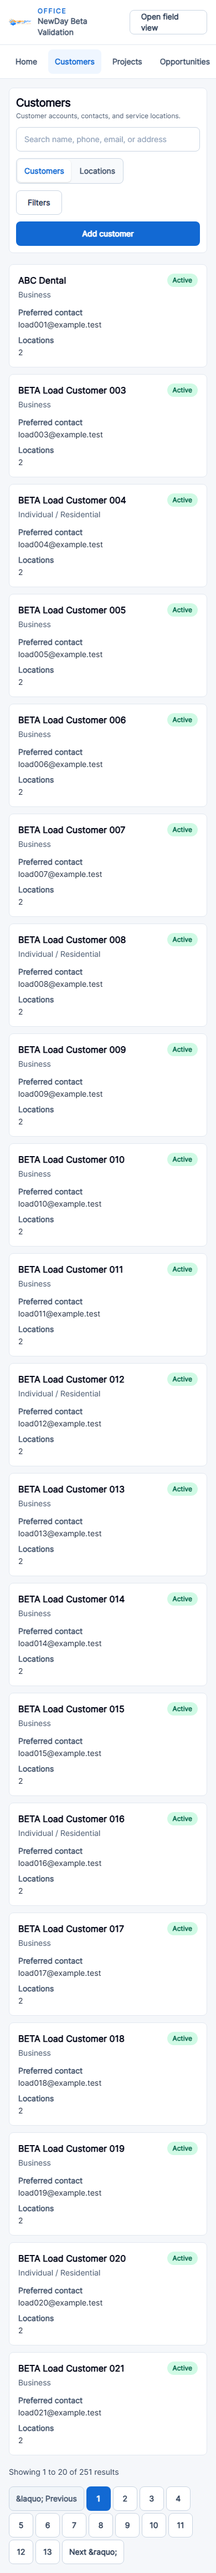
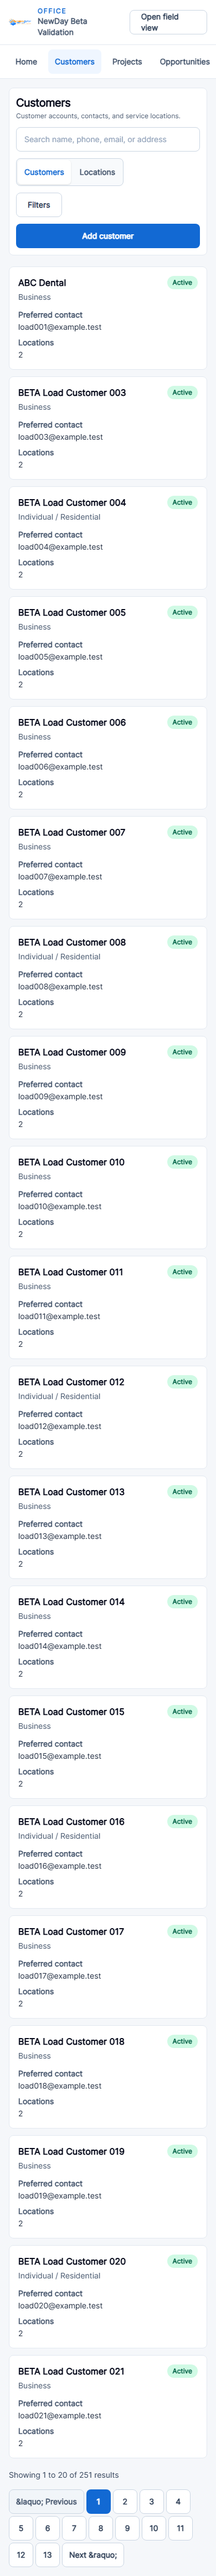
fix(ui): keep customer workspace styling on locations

diff --git a/tests/Browser/office-ui-foundation.spec.js b/tests/Browser/office-ui-foundation.spec.js
@@ -35,6 +35,7 @@ test('shared primary toolbar is responsive and accessible on the proof workspace
 
     for (const [id, name, path] of [
         ['C01', 'customers', '/office/customers'],
+        ['L01', 'locations', '/office/locations'],
         ['O01', 'opportunities', '/office/opportunities'],
         ['I01', 'invoices', '/office/invoices'],
     ]) {

diff --git a/resources/views/office/locations/index.blade.php b/resources/views/office/locations/index.blade.php
@@ -1,15 +1,30 @@
 <x-layouts.office title="Service locations" width="workspace">
-    <x-office.page-header title="Customers" description="Manage customer accounts, contacts, and service locations.">
-        @if ($activeMembership->hasCapability('customers.manage'))
-            <x-slot:actions><a href="{{ route('office.customers.create') }}" class="button-primary">Add customer</a></x-slot:actions>
-        @endif
-    </x-office.page-header>
-    <x-office.customer-workspace-tabs />
-
-    <form method="GET" class="office-filter-toolbar lg:grid-cols-[minmax(320px,1fr)_180px_auto]" aria-label="Location filters">
-        <div><label for="search" class="form-label">Search</label><input id="search" name="search" class="form-input" value="{{ request('search') }}" placeholder="Customer, location, city, or ZIP"></div>
-        <div><label for="status" class="form-label">Status</label><select id="status" name="status" class="form-input"><option value="">All locations</option><option value="active" @selected(request('status') === 'active')>Active</option><option value="inactive" @selected(request('status') === 'inactive')>Inactive</option></select></div>
-        <div class="flex flex-wrap gap-2"><button class="button-secondary">Filter</button>@if(request()->hasAny(['search', 'status']))<a href="{{ route('office.locations.index') }}" class="inline-flex min-h-11 items-center px-2 text-sm font-bold text-brand-blue underline">Clear</a>@endif</div>
+    @php($activeFilterCount = collect(['search', 'status'])->filter(fn ($key) => filled(request($key)))->count())
+    <form method="GET" aria-label="Location filters">
+        <x-office.primary-toolbar title="Customers" description="Customer accounts, contacts, and service locations.">
+            <x-slot:search>
+                <label for="search" class="sr-only">Search service locations</label>
+                <input id="search" name="search" class="form-input" value="{{ request('search') }}" placeholder="Search customer, location, city, or ZIP">
+            </x-slot:search>
+            <x-slot:viewSwitcher><x-office.customer-workspace-tabs /></x-slot:viewSwitcher>
+            <x-slot:filters>
+                <x-office.filter-panel :active-count="$activeFilterCount">
+                    <div><label for="status" class="form-label">Status</label><select id="status" name="status" class="form-input"><option value="">All locations</option><option value="active" @selected(request('status') === 'active')>Active</option><option value="inactive" @selected(request('status') === 'inactive')>Inactive</option></select></div>
+                    <div class="mt-4 flex flex-wrap justify-end gap-2"><a href="{{ route('office.locations.index') }}" class="button-secondary">Clear all</a><button class="button-primary">Apply filters</button></div>
+                </x-office.filter-panel>
+            </x-slot:filters>
+            @if ($activeMembership->hasCapability('customers.manage'))
+                <x-slot:primaryAction><a href="{{ route('office.customers.create') }}" class="button-primary">Add customer</a></x-slot:primaryAction>
+            @endif
+            @if($activeFilterCount)
+                <x-slot:chips>
+                    <span class="text-xs font-bold uppercase tracking-wide text-slate-500">Active filters</span>
+                    @if(filled(request('search')))<x-office.filter-chip label="Search: {{ request('search') }}" :remove-url="route('office.locations.index', request()->except(['search', 'page']))" />@endif
+                    @if(filled(request('status')))<x-office.filter-chip label="Status: {{ Str::headline(request('status')) }}" :remove-url="route('office.locations.index', request()->except(['status', 'page']))" />@endif
+                    <a href="{{ route('office.locations.index') }}" class="inline-flex min-h-9 items-center px-2 text-xs font-bold text-brand-blue underline">Clear all</a>
+                </x-slot:chips>
+            @endif
+        </x-office.primary-toolbar>
     </form>
 
     <div class="office-table-wrap" data-office-table>
@@ -27,7 +42,7 @@
                         <td class="text-right"><a href="{{ route('office.locations.show', $location) }}" class="inline-flex min-h-11 items-center font-bold text-brand-blue">Open<span class="sr-only"> {{ $location->name }}</span></a></td>
                     </tr>
                 @empty
-                    <tr><td colspan="6" class="py-10 text-center"><p class="font-bold text-slate-900">No service locations found</p><p class="mt-1 text-sm text-slate-500">Clear filters to broaden the location list.</p></td></tr>
+                    <tr><td colspan="6" class="p-3"><x-office.state-panel title="No service locations found" message="Clear filters to broaden the location list." /></td></tr>
                 @endforelse
             </tbody>
         </table>
@@ -41,7 +56,7 @@
                 <p class="mt-2 text-sm text-slate-500"><strong class="text-slate-700">Primary contact:</strong> {{ $location->primaryContact?->name ?: 'Not assigned' }}</p>
             </a>
         @empty
-            <div class="surface p-8 text-center"><p class="font-bold text-slate-900">No service locations found</p><p class="mt-1 text-sm text-slate-500">Clear filters to broaden the location list.</p></div>
+            <x-office.state-panel title="No service locations found" message="Clear filters to broaden the location list." />
         @endforelse
     </div>
     <div class="mt-5">{{ $locations->links() }}</div>

diff --git a/docs/ui-review/office-modernization/checkpoint-1/REVIEW.md b/docs/ui-review/office-modernization/checkpoint-1/REVIEW.md
@@ -2,7 +2,7 @@
 
 ## Scope
 
-Checkpoint 1 establishes shared Office presentation primitives and proves them on Customers, Opportunities, and Billing / Invoices. It does not change controllers, routes, authorization, queries, persistence, or workflow behavior.
+Checkpoint 1 establishes shared Office presentation primitives and proves them on Customers, Locations, Opportunities, and Billing / Invoices. It does not change controllers, routes, authorization, queries, persistence, or workflow behavior.
 
 ## Implemented foundation
 
@@ -18,6 +18,7 @@ Checkpoint 1 establishes shared Office presentation primitives and proves them o
 | Workspace | Preserved behavior | Foundation proof |
 | --- | --- | --- |
 | Customers | Existing search, status/type filtering, Customer/Location navigation, pagination, and permissions | Toolbar, filter disclosure, chips, actions, responsive results, empty state |
+| Locations | Existing search, status filtering, Customer/Location navigation, pagination, and permissions | Matching Customer workspace toolbar, filters, chips, actions, responsive results, empty state |
 | Opportunities | Existing Kanban/List preference, search, filters, sorting, and capability-gated creation | Toolbar, view switcher, filter disclosure, chips, alerts, empty state |
 | Billing / Invoices | Existing ready-handoff and invoice workspaces, search/filter/sort state, invoice creation, and settings access | Toolbar, responsive view menu/tabs, filter disclosure, chips, empty state |
 
@@ -28,7 +29,7 @@ Checkpoint 1 establishes shared Office presentation primitives and proves them o
 - 1280px and 1440px: one-row compact toolbar and dense desktop tables; invoice status uses the compact View menu.
 - 1920px: full-width workspace tables and the complete invoice status tab row.
 
-Screenshots are stored in `docs/ui-review/office-modernization/checkpoint-1/after` for all three proof workspaces at 390, 768, 1280, 1440, and 1920 pixels. Two additional Customer filter-state screenshots show the open filter panel and active chips.
+Screenshots are stored in `docs/ui-review/office-modernization/checkpoint-1/after` for all four proof indexes at 390, 768, 1280, 1440, and 1920 pixels. Two additional Customer filter-state screenshots show the open filter panel and active chips.
 
 ## Validation
 
@@ -47,7 +48,7 @@ Screenshots are stored in `docs/ui-review/office-modernization/checkpoint-1/afte
 
 ## Known limitations
 
-- The shared primitives are intentionally proven on only three representative workspaces. Applying them across the remaining Office routes belongs to Checkpoint 2.
+- The shared primitives are intentionally proven on three representative workspace groups. Applying them across the remaining Office routes belongs to Checkpoint 2.
 - No loading state is forced onto synchronous server-rendered pages; the shared component is available for workflows that have a real loading boundary.
 - The screenshot fixture has few Opportunities, so its empty-state proof is intentional.
 
